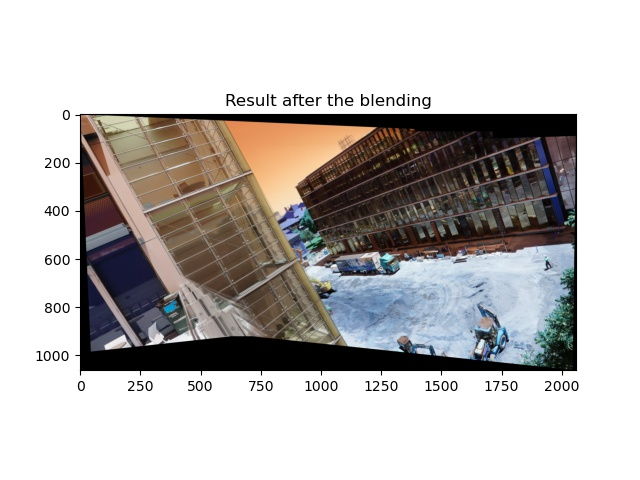
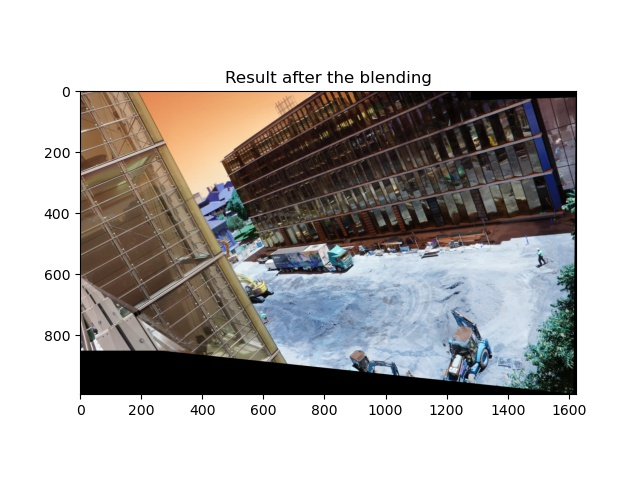
Stitch the image with the major number of correspondencies first

diff --git a/automatic2dmosaicing.py b/automatic2dmosaicing.py
@@ -6,6 +6,41 @@ import matplotlib.pyplot as plt
 from scipy.ndimage.morphology import distance_transform_edt
 import os
 
+def goodMatches(ref_des, des, matcher):
+    '''
+
+    :param ref_des: reference descriptors of reference image ref_img
+    :param des: descriptors of image img
+    :param matcher: matcher use to compute near points between ref_img and img
+    :return: good found matches
+    '''
+    # compute the matches and keep 2 nearest neighbour
+    matches = matcher.knnMatch(des, ref_des, k=2)
+
+    # store all the good matches as per Lowe's ratio test.
+    good = []
+    for m, n in matches:
+        if m.distance < 0.7 * n.distance:
+            good.append(m)
+    return good
+
+def createFrame(ref_img, img):
+    '''
+
+    Make a border around the ref_img equal to the shape of img. We use this as a frame where we paste the warped img.
+
+    :param ref_img: reference image
+    :param img: image with which we want to make the stitching
+    :return: new ref_img
+    '''
+    top = int(img.shape[0])
+    bottom = top
+    right = int(img.shape[1])
+    left = right
+
+    ref_img = cv.copyMakeBorder(ref_img, top, bottom, left, right, cv.BORDER_CONSTANT, None, 0)
+    return ref_img
+
 def blending(I1, I2):
 
     '''
@@ -49,10 +84,9 @@ def cropping(img):
     return crop
 
 def main():
-
     '''
-    ALGORITHM
-     1) Choose one image of the set as a reference (we impose that the images are given from left to right, doesn't matter if top to bottom or viceversa)
+    ALGORITHM : Planar panoramic mosaicing (page 206-207 of Multiple View Geometry for Computer Vision (2nd edition))
+     1) Choose one image of the set as a reference
      2) Compute the homography H which maps one of the other images of the set to this reference image
      3) Projectively warp the image with this homography, and augment the reference image with the non-overlapping part of
         warped image
@@ -67,25 +101,30 @@ def main():
     SRC_IMAGES_FOLDER = "images"
 
     # folders where we keep test images for folder images and where we keep results for mosaicing folder
-    SRC_TEST = ["room1",
-                "room2",
-                "bridge",
-                "building_site",
-                "big_house",
-                "river",
-                "roof",
-                "not_common"]
-
+    SRC_TEST = ["room1",  # 0
+                "room2",  # 1
+                "bridge",  # 2
+                "building_site",  # 3
+                "big_house",  # 4
+                "river",  # 5
+                "roof",  # 6
+                "not_common",  # 7
+                "carmel",  # 8
+                "golden_gate",  # 9
+                "halfdome",  # 10
+                "diamondhead",  # 11
+                "fishbowl",  # 12
+                "shangai"]  # 13
 
     # selected test folder. It is the folder with the images for the stitching
     # and also it is the folder where we store the results
-    CONSIDERED = SRC_TEST[3]
+    CONSIDERED = SRC_TEST[11]
 
     # folder where we keep the results
     SRC_TEST = "source_images"
     DST_MOSAICING_FOLDER = "mosaicing"
 
-    #folder in which we have the features points of our tested images
+    # folder in which we have the features points of our tested images
     DST_SIFT_FOLDER = "sift"
 
     SAVE_PATH = os.path.join(SRC_IMAGES_FOLDER, CONSIDERED)
@@ -97,10 +136,10 @@ def main():
     os.makedirs(SAVE_MOSAICING, exist_ok=True)
     os.makedirs(SAVE_SIFT, exist_ok=True)
 
-
     # -- END SET-UP
 
     # Read the images
+
     print("[INFO] loading images...")
     imagePaths = sorted(list(paths.list_images(f"{SRC_IMAGES}"))) # for example load all paths from: images/test_1
     images = []
@@ -119,42 +158,22 @@ def main():
     sift = cv.SIFT_create()
     points = []
 
-    # Save the images with the salient points drawn
-    fig, ax = plt.subplots(nrows=len(images))
-    fig.suptitle("SIFT for each given image", fontsize=14)
     for i, img in enumerate(images):
         gray = cv.cvtColor(img, cv.COLOR_BGR2GRAY)
         kp, des = sift.detectAndCompute(gray, None)
         gray = cv.drawKeypoints(gray, kp, gray, cv.DRAW_MATCHES_FLAGS_DRAW_RICH_KEYPOINTS)
-        ax[i].imshow(gray)
         cv.imwrite(f"{SAVE_SIFT}/gray_{i+1}.jpg", gray)
         points.append((kp, des))
-
-
-    plt.savefig(f"{SAVE_SIFT}/corresponding_points.jpg")
-    plt.show()
-
-    # we use this to compute the matches between pair of images
-    FLANN_INDEX_KDTREE = 1
-    index_params = dict(algorithm=FLANN_INDEX_KDTREE, trees=5)
-    search_params = dict(checks=500)
-    flann = cv.FlannBasedMatcher(index_params, search_params)
 
     # I take the first image as a reference for the matching with the others
     ref_img = images.pop(0)
     (ref_kp, ref_des) = points.pop(0)
 
-    # we compute the summation of the width and the height for every given image. At the end we will crop the result, to drop the black background
-    # width = ref_img.shape[1]
-    # height = ref_img.shape[0]
-    # for image in images:
-    #     width += image.shape[1]
-    #     height += img.shape[0]
-    #
-    # frame = np.zeros((height, width, 3), dtype = "uint8")
-    # frame[0:ref_img.shape[0], 0:ref_img.shape[1]] = ref_img
-    # ref_img = frame
-    # plt.imshow(ref_img), plt.show()
+    # we use this to compute the matches between pair of images
+    FLANN_INDEX_KDTREE = 1
+    index_params = dict(algorithm=FLANN_INDEX_KDTREE, trees=300)
+    search_params = dict(checks=500)
+    flann = cv.FlannBasedMatcher(index_params, search_params)
 
     # we want a minimum of 4 number of matching points to estimate the homography
     # we want also enough points to discriminate an image from one that isn't a representation of the same scene, this is why we choose a greater number than 4,
@@ -162,71 +181,67 @@ def main():
 
     MIN_MATCH_COUNT = 50
 
-    i = 0
-    while i < len(images):
-        img = images[i]
-        (kp, des) = points[i]
+    while len(images) > 0:
 
-        top = int(img.shape[0])
-        bottom = top
-        right = int(img.shape[1])
-        left = right
+        max_matching = []
+        best_params = {}
 
-        ref_img = cv.copyMakeBorder(ref_img, top, bottom, left, right, cv.BORDER_CONSTANT, None, 0)
-        (ref_kp, ref_des) = sift.detectAndCompute(ref_img, None)
+        for i in range(len(images)):
+            ref_img = cropping(ref_img)
+            img = images[i]
+            (kp, des) = points[i]
 
+            ref_img = createFrame(ref_img, img)  # create a frame where we put the ref_img
+            gray = cv.cvtColor(ref_img, cv.COLOR_BGR2GRAY)
+            (ref_kp, ref_des) = sift.detectAndCompute(gray, None)
+
+            matches = goodMatches(ref_des=ref_des, des=des, matcher=flann)
+            if len(max_matching) < len(matches):
+                max_matching = matches
+                best_params = {
+                    "kp" : kp,
+                    "des" : des,
+                    "matches" : max_matching,
+                    "idx" : i,
+                    "img" : img
+                }
+
+        i = best_params["idx"]
+        matches = best_params["matches"]
+        (kp, des) = (best_params["kp"], best_params["des"])
         width = ref_img.shape[1]
         height = ref_img.shape[0]
 
-        # compute the matches and keep 2 nearest neighbour
-        matches = flann.knnMatch(des, ref_des, k=2)
-
-        # store all the good matches as per Lowe's ratio test.
-        good = []
-        for m, n in matches:
-            if m.distance < 0.7 * n.distance:
-                good.append(m)
-
-        if len(good) >= MIN_MATCH_COUNT:
+        if len(matches) >= MIN_MATCH_COUNT:
+            img = best_params["img"]
+            del images[i]
+            del points[i]
             print(f"[INFO] match between reference and image_{i} found...")
-            src_pts = np.float32([kp[m.queryIdx].pt for m in good]).reshape(-1,1,2) # source points -> where I am
-            dst_pts = np.float32([ref_kp[m.trainIdx].pt for m in good]).reshape(-1,1,2) #destination points -> where I want to be
+            src_pts = np.float32([kp[m.queryIdx].pt for m in matches]).reshape(-1,1,2) # source points -> where I am
+            dst_pts = np.float32([ref_kp[m.trainIdx].pt for m in matches]).reshape(-1,1,2) # destination points -> where I want to be
             # compute the homography
             H, _ = cv.findHomography(src_pts, dst_pts, cv.RANSAC, 5.0)
             print("[INFO] warping...")
-
-
-            # ----------------------------------------------------------------------------------
-            # create the new frame with the reference
-            # top = int(img.shape[0])  # shape[0] = rows
-            # bottom = top
-            # left = int(img.shape[1])  # shape[1] = cols
-            # right = left
-            # ref_img = cv.copyMakeBorder(ref_img, top, bottom, left, right, cv.BORDER_CONSTANT, None, 0)
-            # plt.title("PROVA"), plt.imshow(ref_img), plt.show()
-            # ----------------------------------------------------------------------------------
 
             warped_img = cv.warpPerspective(img, H, (width, height))
             plt.title("Warping image"), plt.imshow(warped_img), plt.show()
             no_blend = cv.add(ref_img, warped_img)
             plt.title("Result without blending"), plt.imshow(no_blend), plt.show()
             print("[INFO] blending...")
+            # If we are sure that the lighting is preserve in all the pictures, we could also use this sentence
+            # ref_img = np.where(ref_img == 0, warped_img, ref_img)
             ref_img = blending(ref_img, warped_img)
             ref_img = cropping(ref_img)
             print("[INFO] blending finished...")
-            # If we are sure that the lighting is preserve in all the pictures, we could also use this sentence
-            # ref_img = np.where(ref_img == 0, warped_img, ref_img)
             plt.title("Result after the blending"),plt.imshow(ref_img), plt.savefig(f"{SAVE_MOSAICING}/mosaicing_{i}.jpg"), plt.show()
 
-            # (ref_kp, ref_des) = sift.detectAndCompute(ref_img, None)
         else:
             print(f"[WARNING] not enough matches found for image_{i}")
-
-        i = i + 1
+            break
 
     # We crop and save the final results
+    ref_img = cropping(ref_img)
     cv.imwrite(f"{SAVE_MOSAICING}/final_result.jpg", ref_img)
 
 if __name__ == "__main__":
     main()
-
